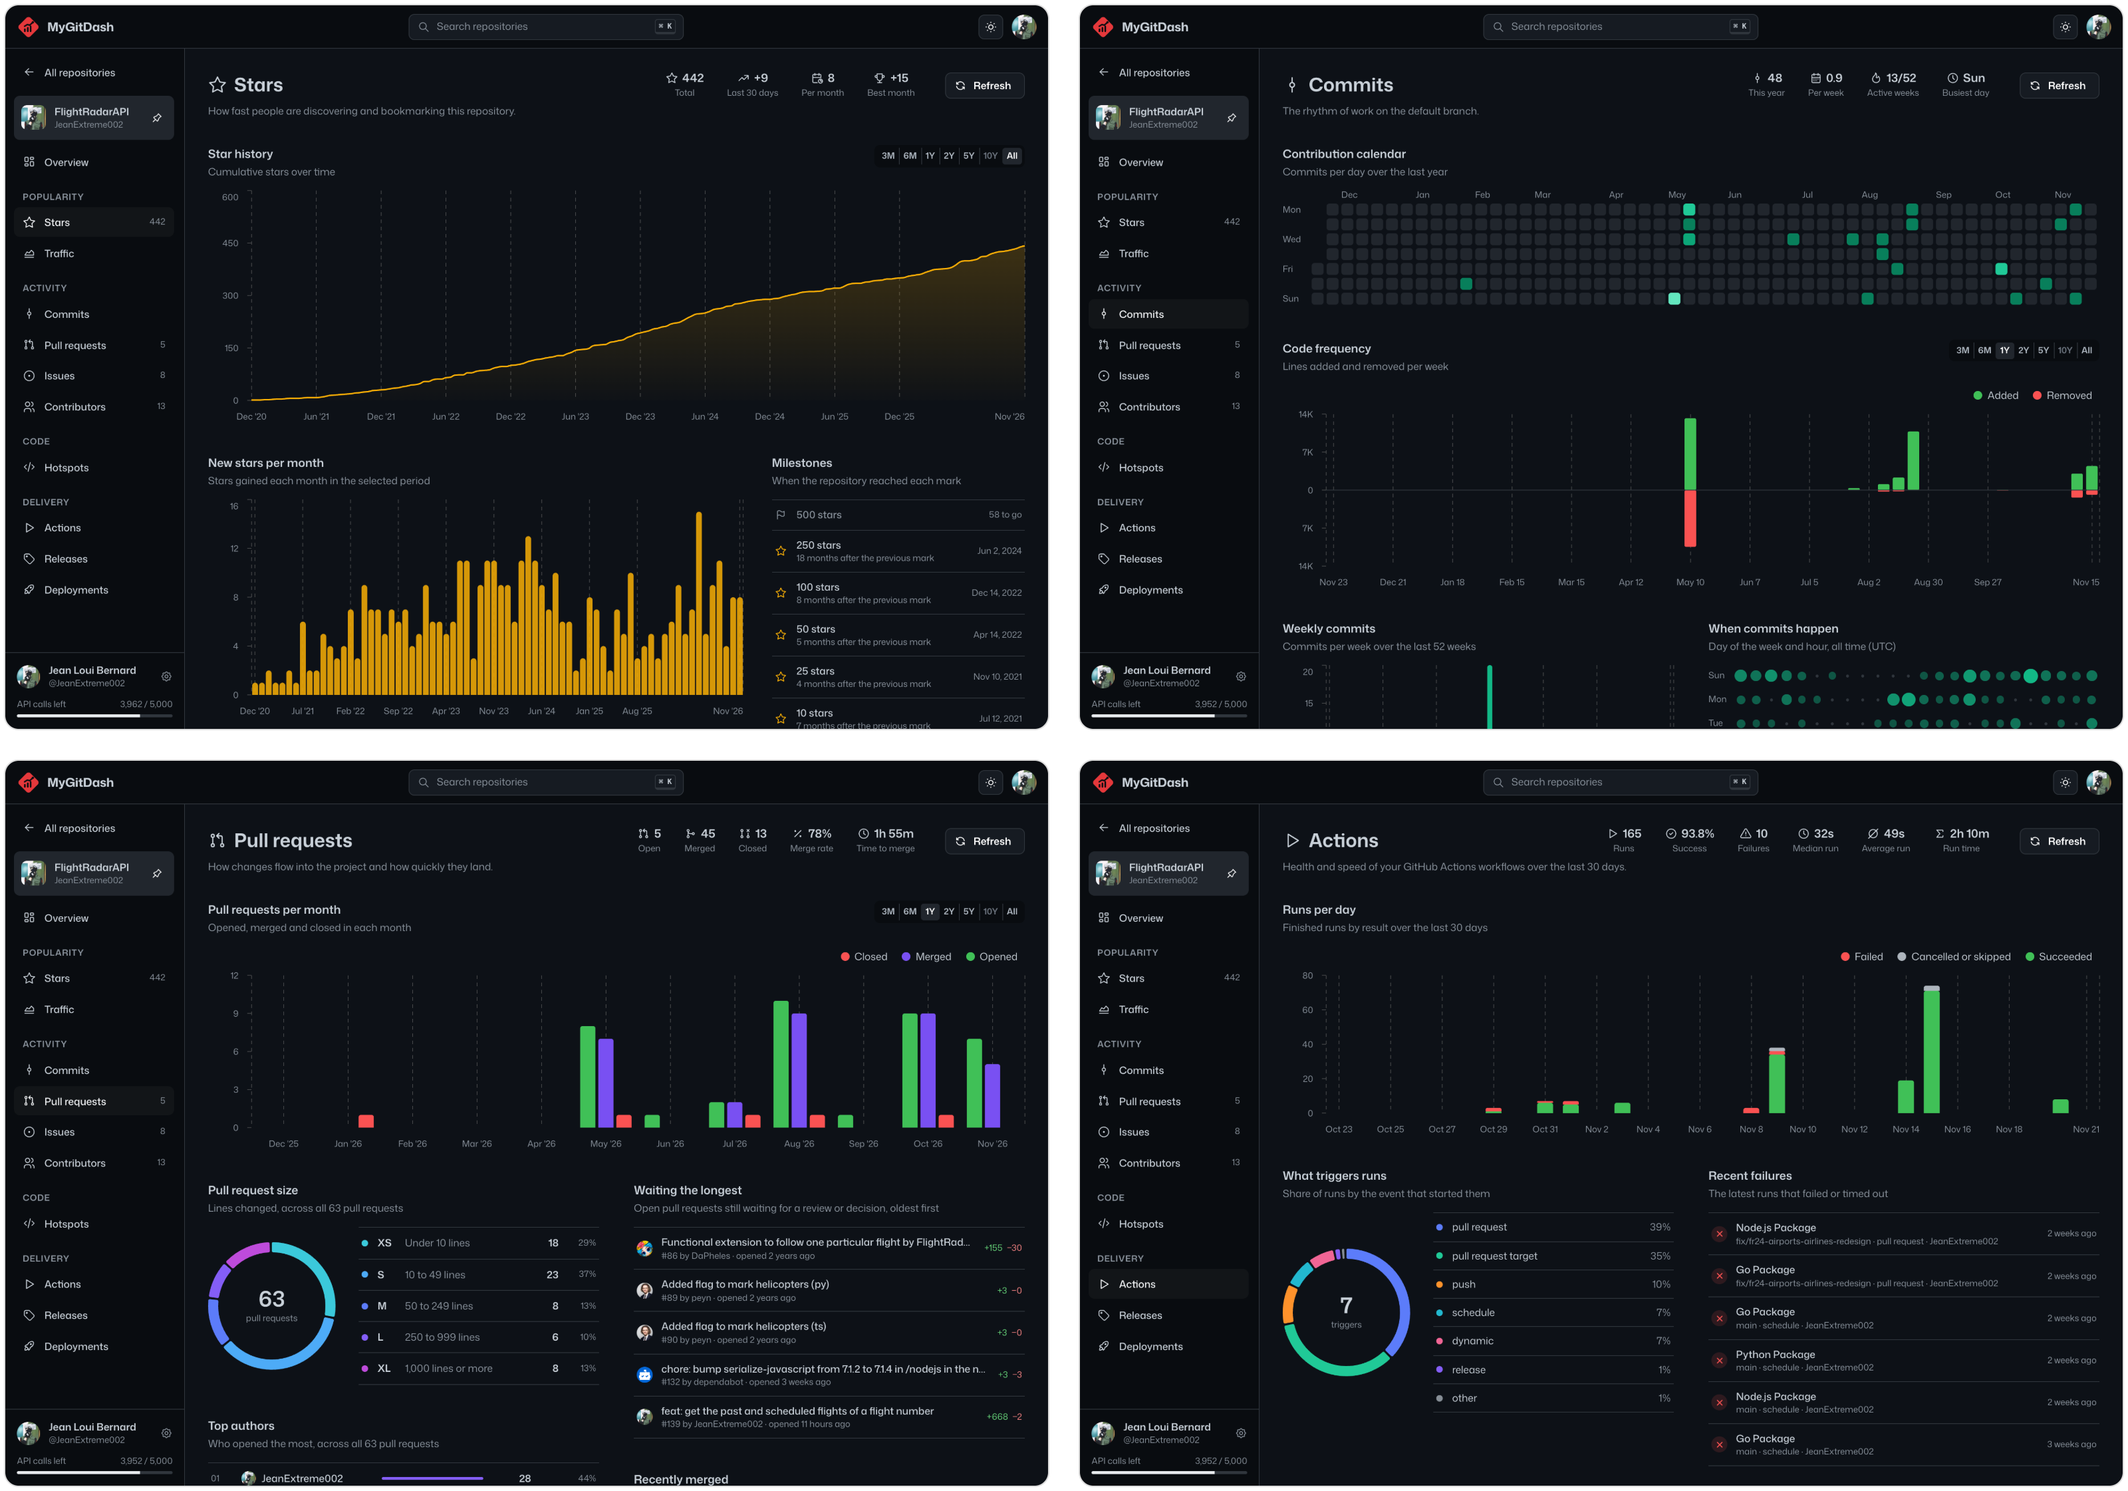
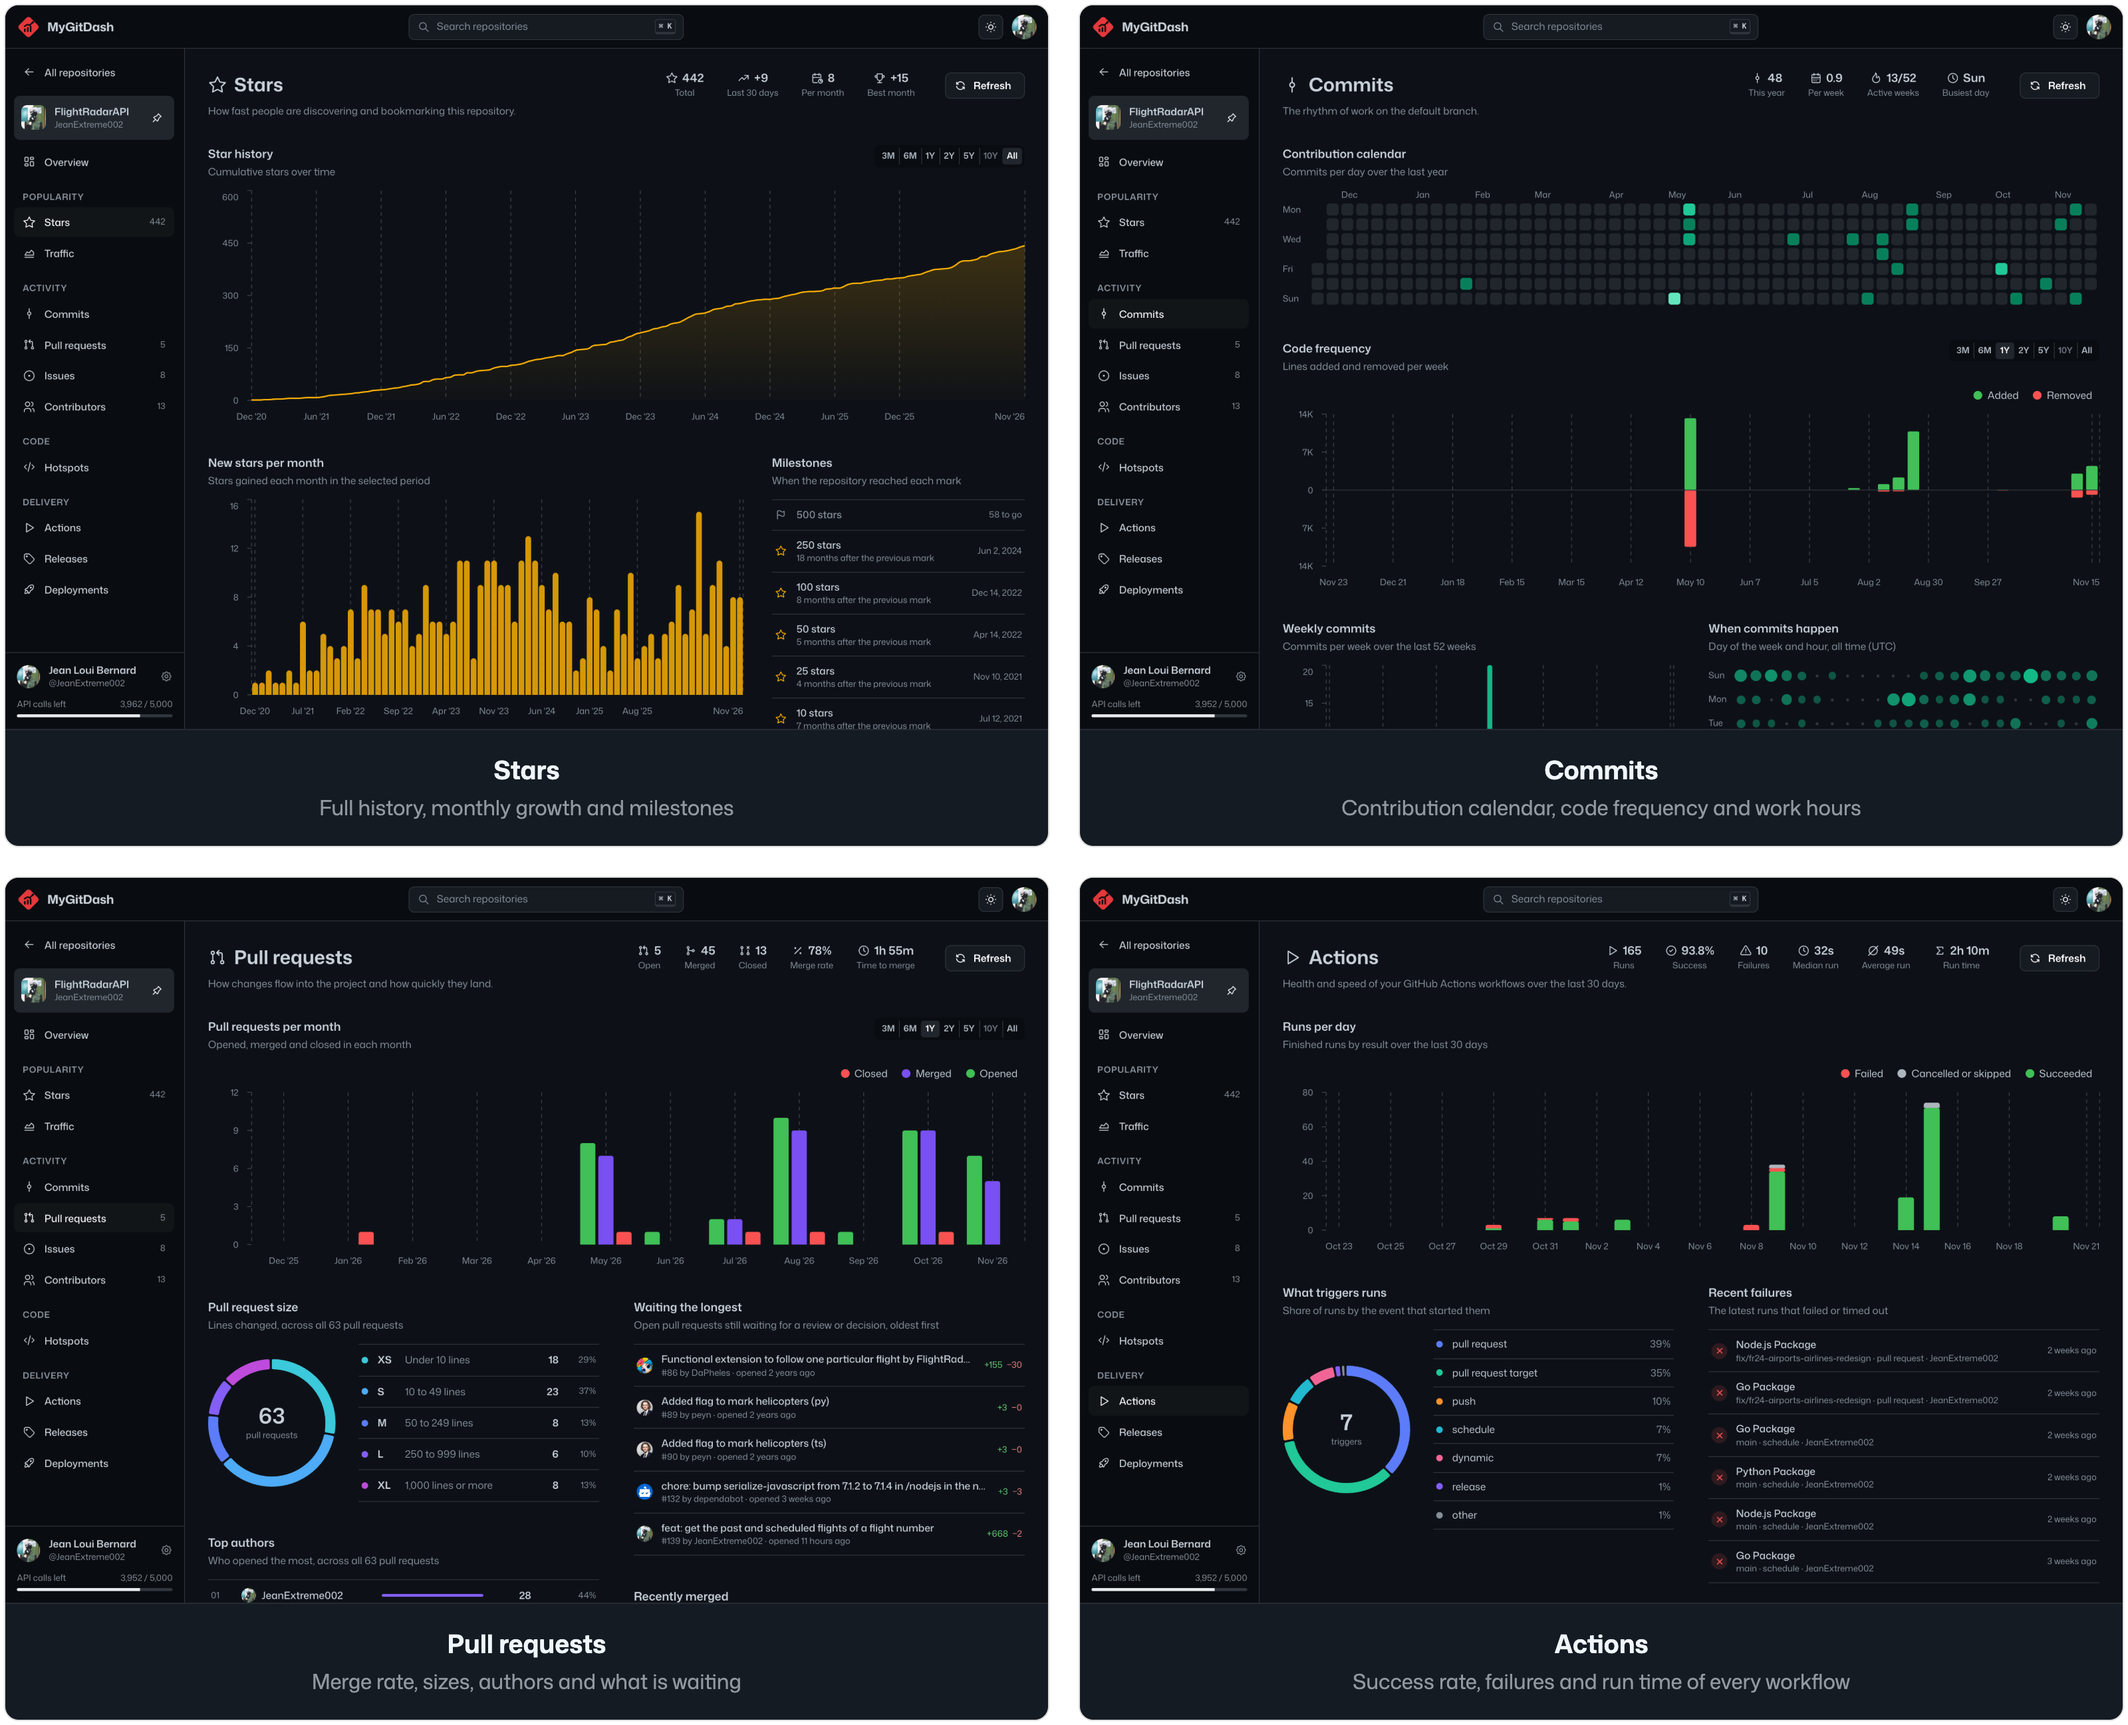
docs: caption each page in the grid image

diff --git a/README.md b/README.md
@@ -48,7 +48,7 @@ mygitdash
   <img src="assets/pages.png" alt="Stars, Commits, Pull requests and Actions pages" width="880" />
 </p>
 
-Above: **Stars**, **Commits**, **Pull requests** and **Actions**. Each repository also gets **Overview**, **Traffic**, **Issues**, **Contributors**, **Hotspots**, **Releases** and **Deployments**, plus a home page across everything you own and <kbd>⌘</kbd> <kbd>K</kbd> to jump anywhere. Light and dark themes included.
+Each repository also gets **Overview**, **Traffic**, **Issues**, **Contributors**, **Hotspots**, **Releases** and **Deployments**, plus a home page across everything you own and <kbd>⌘</kbd> <kbd>K</kbd> to jump anywhere. Light and dark themes included.
 
 ## Follow how your projects grow
 
